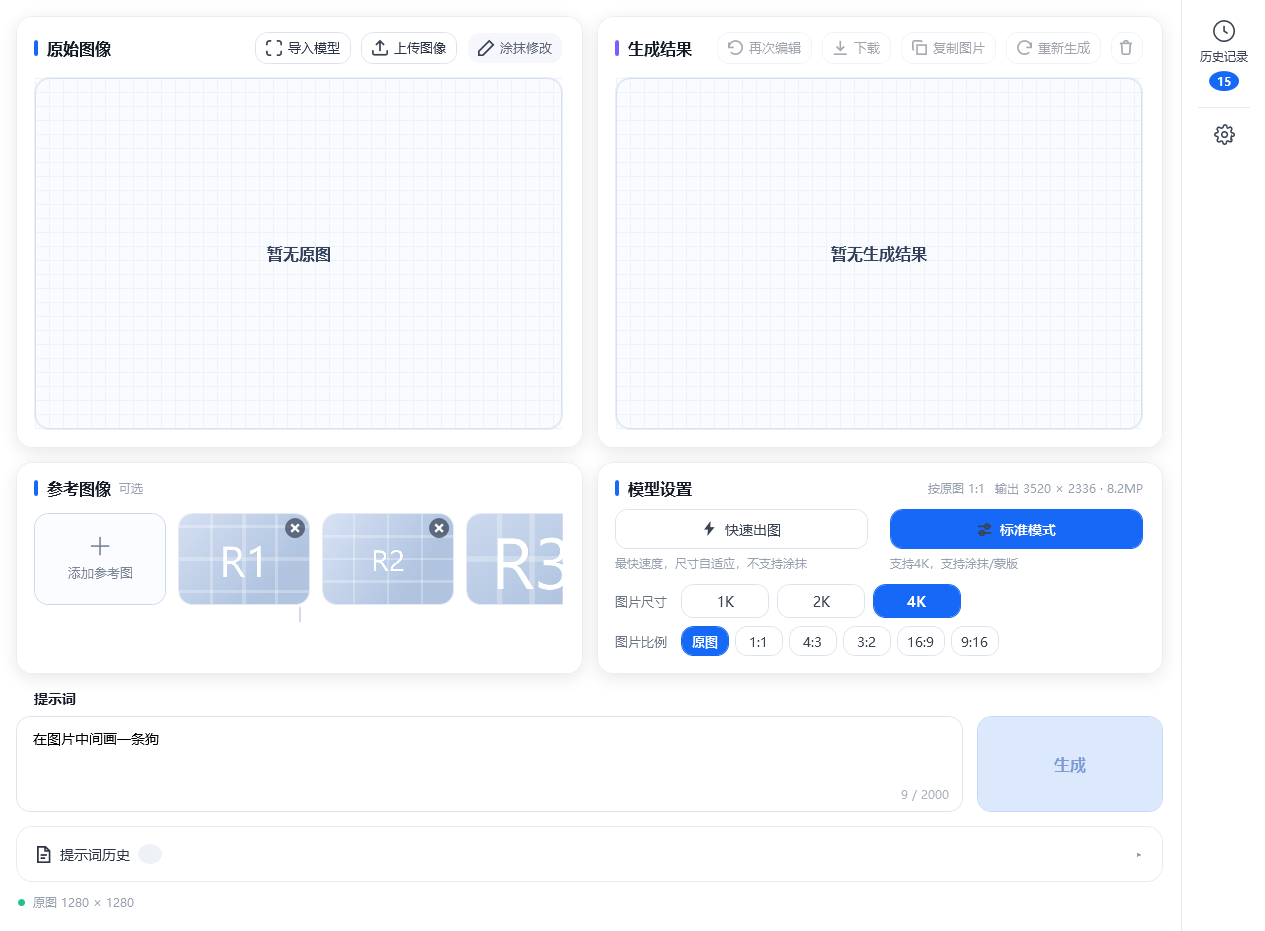
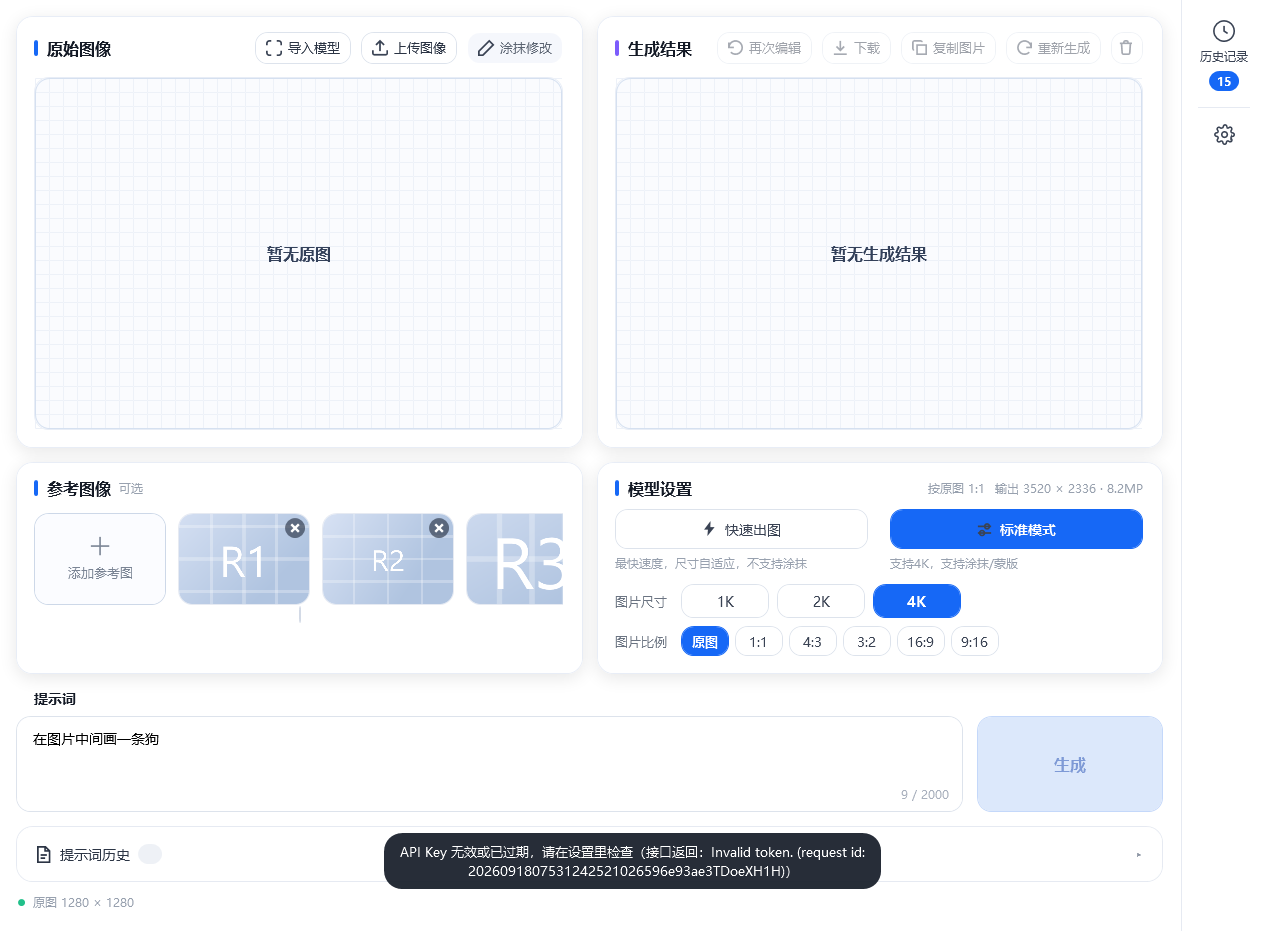
Fix toast shape and make API errors readable
- Toast 之前是「眼睛」形：WPF 的 CornerRadius 不会像 CSS 那样夹到高度一半，
  给 999 时宽元素的四角圆弧互相重叠、退化成透镜状。对照实验确认：
  宽 420×高 38 下 radius=999 是眼睛形，radius=19（半高）才是正胶囊。
  全项目 6 处 999 全部改成固定值（Toast 18、固定高 20 的徽标 10、
  开关轨道 11、预览角标 12），并给 Toast 加 MaxWidth=560 + 换行。
- 错误文案之前直接丢 300 字原始 JSON，既看不懂又把提示条撑满整屏。
  改为优先取 error.message；鉴权失败（Unauthorized/Forbidden/401/403）
  换成可执行提示「API Key 无效或已过期，请在设置里检查」。

离屏渲染工装补齐：之前只抽「工作区」，Toast 是根网格子元素所以从未被照到；
现在连同 Toast 一起渲染，桩 VM 也带上示例提示词与一条报错。

Changed region(s): [[0.2775, 0.8722, 0.7091, 0.9656]]

diff --git a/Views/AIRenderWindow.xaml b/Views/AIRenderWindow.xaml
@@ -722,7 +722,7 @@
 
                                     <!-- 蒙版状态条（浮在图片内部左上） -->
                                     <Border HorizontalAlignment="Left" VerticalAlignment="Top" Margin="12"
-                                            Padding="12,6" CornerRadius="999" Background="#B81A2233" Panel.ZIndex="6"
+                                            Padding="12,6" CornerRadius="12" Background="#B81A2233" Panel.ZIndex="6"
                                             Visibility="{Binding MaskToolbarVisibility}" IsHitTestVisible="False">
                                         <StackPanel Orientation="Horizontal">
                                             <Ellipse Width="7" Height="7" Fill="#FF5B60" VerticalAlignment="Center"/>
@@ -1206,7 +1206,7 @@
                                               VerticalAlignment="Center"/>
                                         <TextBlock Text="提示词历史" FontSize="14" Foreground="#2B3444"
                                                    Margin="8,0,0,0" VerticalAlignment="Center"/>
-                                        <Border Background="#EEF1F6" CornerRadius="999" MinWidth="24" Height="20"
+                                        <Border Background="#EEF1F6" CornerRadius="10" MinWidth="24" Height="20"
                                                 Margin="8,0,0,0" Padding="8,0">
                                             <TextBlock Text="{Binding PromptHistoryCountText}" FontSize="12"
                                                        Foreground="{StaticResource Text2Brush}"
@@ -1284,7 +1284,7 @@
                                   HorizontalAlignment="Center"/>
                             <TextBlock Text="历史记录" FontSize="12" Foreground="#3A4354"
                                        HorizontalAlignment="Center" Margin="0,6,0,0"/>
-                            <Border Background="{StaticResource AccentBrush}" CornerRadius="999" MinWidth="24"
+                            <Border Background="{StaticResource AccentBrush}" CornerRadius="10" MinWidth="24"
                                     Height="20" Margin="0,6,0,0" Padding="8,0" HorizontalAlignment="Center">
                                 <TextBlock Text="{Binding GenerationHistory.Count}" FontSize="12" FontWeight="SemiBold"
                                            Foreground="White" HorizontalAlignment="Center" VerticalAlignment="Center"/>
@@ -1324,7 +1324,7 @@
                                   Data="M12 3.4a8.6 8.6 0 1 1 0 17.2 8.6 8.6 0 0 1 0-17.2ZM12 7.6V12l3 2"/>
                             <TextBlock Text="历史记录" FontSize="14.5" FontWeight="SemiBold" Foreground="#141A26"
                                        Margin="9,0,0,0" VerticalAlignment="Center"/>
-                            <Border Background="#EEF1F6" CornerRadius="999" MinWidth="24" Height="20"
+                            <Border Background="#EEF1F6" CornerRadius="10" MinWidth="24" Height="20"
                                     Margin="9,0,0,0" Padding="8,0">
                                 <TextBlock Text="{Binding HistoryCountText}" FontSize="12"
                                            Foreground="{StaticResource Text2Brush}"
@@ -1495,7 +1495,7 @@
                                       ToolTip="生成完成后写入历史记录">
                             <ToggleButton.Template>
                                 <ControlTemplate TargetType="ToggleButton">
-                                    <Border x:Name="Track" Width="38" Height="22" CornerRadius="999" Background="#DFE5EE">
+                                    <Border x:Name="Track" Width="38" Height="22" CornerRadius="11" Background="#DFE5EE">
                                         <Ellipse x:Name="Knob" Width="18" Height="18" Fill="White"
                                                  HorizontalAlignment="Left" Margin="2,0,0,0"/>
                                     </Border>
@@ -1525,8 +1525,13 @@
                       Margin="0,0,0,34" Panel.ZIndex="200" IsHitTestVisible="False">
             <ItemsControl.ItemTemplate>
                 <DataTemplate>
-                    <Border Background="#ED171D29" CornerRadius="999" Padding="16,9" Margin="0,0,0,8">
-                        <TextBlock Text="{Binding}" Foreground="White" FontSize="13"/>
+                    <!-- 圆角必须给固定值：WPF 的 CornerRadius 不像 CSS 会自动夹到高度一半，
+                         给 999 时宽元素的四角圆弧互相重叠，形状会退化成「眼睛」。
+                         Toast 最小高度 36（9+9 内边距 + 13 号字），18 = 半高，是安全的胶囊值。 -->
+                    <Border Background="#ED171D29" CornerRadius="18" Padding="16,9"
+                            Margin="0,0,0,8" MaxWidth="560">
+                        <TextBlock Text="{Binding}" Foreground="White" FontSize="13"
+                                   TextWrapping="Wrap" TextAlignment="Center"/>
                     </Border>
                 </DataTemplate>
             </ItemsControl.ItemTemplate>

diff --git a/Services/AIRenderService.cs b/Services/AIRenderService.cs
@@ -508,8 +508,45 @@ namespace AIRenderer.Services
             return sampled == 0 ? 0 : transparent * 100.0 / sampled;
         }
 
+        /// <summary>
+        /// 把接口错误变成一句人话。之前是把 300 字原始 JSON 直接丢给用户：
+        /// 既看不懂（{"error":{"message":...}}），又会把提示条撑满整屏。
+        /// </summary>
         private static string DescribeError(string status, string content)
-            => $"接口返回 {status}：{Truncate(content, 300)}";
+        {
+            var detail = ExtractApiMessage(content);
+            if (IsAuthFailure(status))
+                return $"API Key 无效或已过期，请在设置里检查（接口返回：{detail}）";
+            return $"接口返回 {status}：{detail}";
+        }
+
+        /// <summary>优先取 API易 / OpenAI 风格错误体里的 error.message，取不到再退回截断原文。</summary>
+        private static string ExtractApiMessage(string content)
+        {
+            if (string.IsNullOrWhiteSpace(content))
+                return "无返回内容";
+
+            try
+            {
+                var root = JToken.Parse(content);
+                var message = root?["error"]?["message"]?.ToString()
+                              ?? root?["message"]?.ToString()
+                              ?? root?["error"]?.ToString();
+                if (!string.IsNullOrWhiteSpace(message))
+                    return Truncate(message.Trim(), 160);
+            }
+            catch (JsonException)
+            {
+                // 不是 JSON，按纯文本处理
+            }
+
+            return Truncate(content.Trim(), 160);
+        }
+
+        private static bool IsAuthFailure(string status)
+            => !string.IsNullOrEmpty(status) &&
+               (status.Contains("Unauthorized") || status.Contains("Forbidden") ||
+                status.Contains("401") || status.Contains("403"));
 
         private static string Truncate(string value, int max)
             => string.IsNullOrEmpty(value) || value.Length <= max ? value : value.Substring(0, max) + "…";
